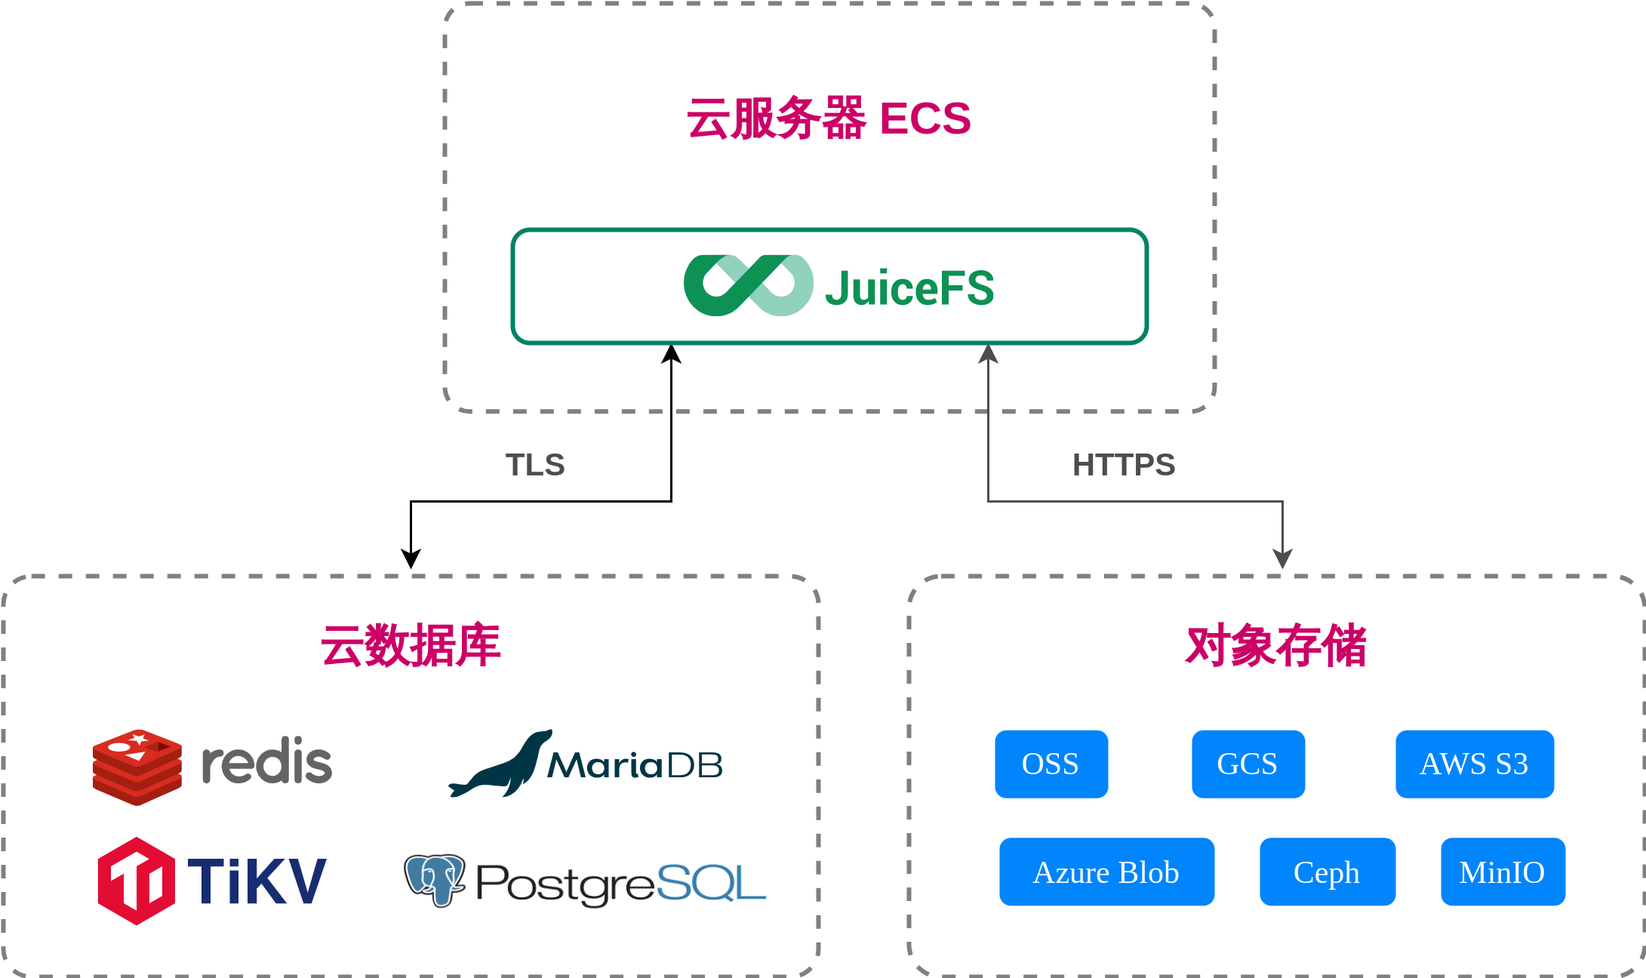
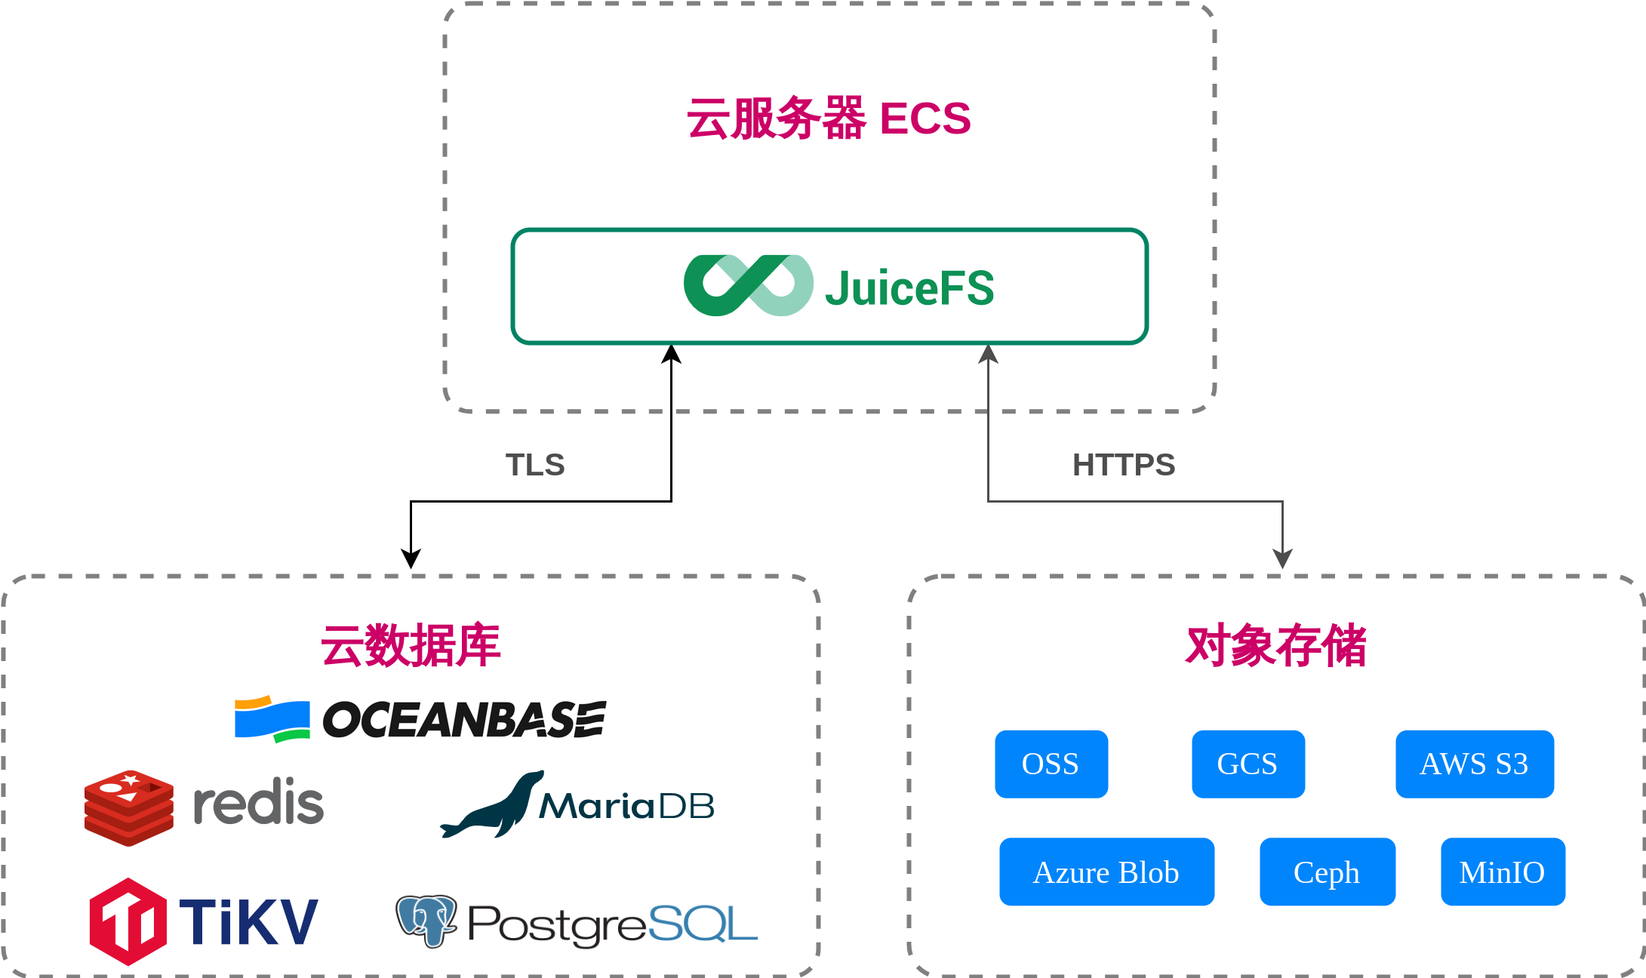
Add OceanBase as the meta-database in the JuiceFS official website documentation

Changed region(s): [[0.0312, 0.7099, 0.4677, 0.9877]]

diff --git a/docs/en/tutorials/qcloud.md b/docs/en/tutorials/qcloud.md
@@ -32,9 +32,9 @@ JuiceFS can be installed on all operating systems provided by Tencent Cloud CVM.
 
 ### 2. Database
 
-JuiceFS will store all the metadata corresponding to the data in a separate database, and the supported databases are Redis, MySQL, PostgreSQL, TiKV and SQLite.
+JuiceFS will store all the metadata corresponding to the data in a separate database, and the supported databases are Redis, MySQL, PostgreSQL, TiKV, SQLite and OceanBase.
 
-Depending on the database type, the performance and reliability of metadata varies. For example, Redis runs entirely on memory, which provides the ultimate performance, but is difficult to operate and maintain, and has relatively low reliability. SQLite is a single-file relational database with low performance and is not suitable for large-scale data storage, but it is configuration-free and suitable for scenarios with small amounts of data storage.
+Depending on the database type, the performance and reliability of metadata varies. For example, Redis runs entirely on memory, which provides the ultimate performance, but is difficult to operate and maintain, and has relatively low reliability. SQLite is a single-file relational database with low performance and is not suitable for large-scale data storage, but it is configuration-free and suitable for scenarios with small amounts of data storage. In contrast, OceanBase is a distributed relational database that can ensure data consistency and high reliability while providing high performance. It is particularly suitable for scenarios with high requirements for transaction consistency and distributed capabilities, making JuiceFS more efficient and stable when processing large-scale metadata.
 
 If you are just evaluating the capabilities of JuiceFS, you can manually build the database for use in the CVM. When you want to use JuiceFS in a production environment, the cloud database service of Tencent Cloud is usually a better choice if you don't have a professional database operation and maintenance team.
 
@@ -42,12 +42,12 @@ Of course, you can also use cloud database services provided on other cloud plat
 
 If you must access the database through the public network, you can enhance the security of your data by strictly limiting the IP addresses that are allowed to access the database through the whitelist feature provided by the cloud database console. On the other hand, if you cannot connect to the cloud database through the public network, then you can check the whitelist of the database.
 
-|    Database     |                          Redis                          |                      MySQL/PostgreSQL                       |                            SQLite                            |
-| :-------------: | :-----------------------------------------------------: | :----------------------------------------------------------: | :----------------------------------------------------------: |
-| **Performance** |                          High                           |                            Medium                            |                             Low                              |
-| **Management**  |                          High                           |                            Medium                            |                             Low                              |
-| **Reliability** |                           Low                           |                            Medium                            |                             Low                              |
-|  **Scenario**   | Massive data, distributed high-frequency read and write | Massive data, distributed low and medium frequency read and write | Low frequency read and write in single machine for small amount of data |
+|    Database     |                          Redis                          |                      MySQL/PostgreSQL                       |                            SQLite                            |                          OceanBase                          |
+| :-------------: | :-----------------------------------------------------: | :----------------------------------------------------------: | :----------------------------------------------------------: | :----------------------------------------------------------: |
+| **Performance** |                          High                           |                            Medium                            |                             Low                              |                          High                           |
+| **Management**  |                          High                           |                            Medium                            |                             Low                              |                            Medium                            |
+| **Reliability** |                           Low                           |                            Medium                            |                             Low                              |                          High                           |
+|  **Scenario**   | Massive data, distributed high-frequency read and write | Massive data, distributed low and medium frequency read and write | Low frequency read and write in single machine for small amount of data | Distributed scenarios, strong transaction consistency, and high reliability requirements |
 
 **This article uses the TencentDB for Redis, which is accessed through a VPC private network interacting with the CVM:**
 

diff --git a/docs/en/tutorials/aliyun.md b/docs/en/tutorials/aliyun.md
@@ -43,9 +43,9 @@ In terms of operating system, JuiceFS can be installed on all operating systems 
 
 ### Cloud database
 
-JuiceFS stores all the metadata corresponding to the data in a separate database, which currently supports Redis, MySQL, PostgreSQL, and SQLite.
+JuiceFS stores all the metadata corresponding to the data in a separate database, which currently supports Redis, MySQL, PostgreSQL, SQLite, and OceanBase.
 
-Depending on the database type, the performance and reliability of metadata are different. For example, Redis runs entirely in memory. While it provides the ultimate performance, it is difficult to operate and maintain and has low reliability. SQLite is a single-file relational database with low performance and is not suitable for large-scale data storage. However, it is configuration-free and suitable for a small amount of data storage on a single machine.
+Depending on the database type, the performance and reliability of metadata are different. For example, Redis runs entirely in memory. While it provides the ultimate performance, it is difficult to operate and maintain and has low reliability. SQLite is a single-file relational database with low performance and is not suitable for large-scale data storage. However, it is configuration-free and suitable for a small amount of data storage on a single machine. In contrast, OceanBase is a distributed relational database that can ensure data consistency and high reliability while providing high performance. It is particularly suitable for scenarios with high requirements for transaction consistency and distributed capabilities, making JuiceFS more efficient and stable when processing large-scale metadata.
 
 If you just want to evaluate the functionality of JuiceFS, you can build the database manually on ECS. If you want to use JuiceFS in a production environment, and you don't have a professional database operation and maintenance team, the cloud database service is usually a better choice.
 
@@ -55,12 +55,12 @@ If you must access the database through the public network, you can enhance the 
 
 On the other hand, if you cannot successfully connect to the cloud database through the public network, you can check the whitelist of the database.
 
-|    Database     |                          Redis                          |                      MySQL/PostgreSQL                       |                            SQLite                            |
-| :-------------: | :-----------------------------------------------------: | :----------------------------------------------------------: | :----------------------------------------------------------: |
-| **Performance** |                          High                           |                            Medium                            |                             Low                              |
-| **Management**  |                          High                           |                            Medium                            |                             Low                              |
-| **Reliability** |                           Low                           |                            Medium                            |                             Low                              |
-|  **Scenario**   | Massive data, distributed high-frequency reads and writes | Massive data, distributed low- and medium-frequency reads and writes | Low-frequency reads and writes in single machine for small amounts of data |
+|    Database     |                          Redis                          |                      MySQL/PostgreSQL                       |                            SQLite                            |                          OceanBase                          |
+| :-------------: | :-----------------------------------------------------: | :----------------------------------------------------------: | :----------------------------------------------------------: | :----------------------------------------------------------: | 
+| **Performance** |                          High                           |                            Medium                            |                             Low                              |                          High                           |
+| **Management**  |                          High                           |                            Medium                            |                             Low                              |                            Medium                            |
+| **Reliability** |                           Low                           |                            Medium                            |                             Low                              |                          High                           |
+|  **Scenario**   | Massive data, distributed high-frequency reads and writes | Massive data, distributed low- and medium-frequency reads and writes | Low-frequency reads and writes in single machine for small amounts of data | Distributed scenarios, strong transaction consistency, and high reliability requirements |
 
 **This document uses [ApsaraDB for Redis](https://www.alibabacloud.com/product/apsaradb-for-redis), and the following pseudo address is compiled for demonstration purposes only:**
 

diff --git a/docs/en/introduction/comparison/juicefs_vs_s3ql.md b/docs/en/introduction/comparison/juicefs_vs_s3ql.md
@@ -15,7 +15,7 @@ Similar to JuiceFS, S3QL is also an open source network file system driven by ob
 
 ## Differences
 
-- S3QL only supports SQLite. But JuiceFS supports more databases, such as Redis, TiKV, MySQL, PostgreSQL, and SQLite.
+- S3QL only supports SQLite. But JuiceFS supports more databases, such as Redis, TiKV, MySQL, PostgreSQL, SQLite, and supports high-performance distributed databases such as OceanBase to meet the needs of more scenarios.
 - S3QL has no distributed capability and **does not** support multi-host shared mounting. JuiceFS is a typical distributed file system. When using a network-based database, it supports multi-host distributed mount read and write.
 - S3QL commits a data block to S3 when it has not been accessed for more than a few seconds. After a file closed or even fsynced, it is only guaranteed to stay in system memory, which may result in data loss if node fails. JuiceFS ensures high data durability, uploading all blocks synchronously when a file is closed.
 - S3QL provides data deduplication. Only one copy of the same data is stored, which can reduce the storage usage, but it will also increase the performance overhead of the system. JuiceFS pays more attention to performance, and it is too expensive to perform deduplication on large-scale data, so this function is temporarily not provided.
@@ -23,7 +23,7 @@ Similar to JuiceFS, S3QL is also an open source network file system driven by ob
 |                           | **S3QL**              | **JuiceFS**                   |
 | :------------------------ | :-------------------- | :---------------------------- |
 | Project status            | Active development    | Active development            |
-| Metadata engine           | SQLite                | Redis, MySQL, SQLite, TiKV    |
+| Metadata engine           | SQLite                | Redis, MySQL, OceanBase, SQLite, TiKV    |
 | Storage engine            | Object Storage, Local | Object Storage, WebDAV, Local |
 | Operating system          | Unix-like             | Linux, macOS, Windows         |
 | Compression algorithm     | LZMA, bzip2, gzip     | LZ4, zstd                     |
@@ -70,7 +70,7 @@ JuiceFS is developed in Go and can be used directly by downloading the pre-compi
 
 ### Create and Mount a file system
 
-Both S3QL and JuiceFS use database to store metadata. S3QL only supports SQLite databases, while JuiceFS supports databases such as Redis, TiKV, MySQL, MariaDB, PostgreSQL, and SQLite.
+Both S3QL and JuiceFS use database to store metadata. S3QL only supports SQLite databases, while JuiceFS supports databases such as SQLite, Redis, TiKV, MySQL, MariaDB, PostgreSQL, and OceanBase.
 
 Here we create a file system using S3QL and JuiceFS separately with locally created MinIO as object storage:
 
@@ -115,4 +115,4 @@ JuiceFS only sets the object storage API access key when creating a file system,
 
 **S3QL** adopts the storage structure of object storage + SQLite. Storing data in blocks can not only improve the read and write efficiency of the file but also reduce the resource overhead when the file is modified. The advanced features such as snapshots, data deduplication, and data retention, as well as the default data compression and data encryption make S3QL very suitable for individuals to store files in cloud storage at a lower cost and with higher security.
 
-**JuiceFS** supports object storage, HDFS, WebDAV, and local disks as data storage engines, and supports popular databases such as Redis, TiKV, MySQL, MariaDB, PostgreSQL, and SQLite as metadata storage engines. It provides a standard POSIX file system interface through FUSE and a Java API, which can directly replace HDFS to provide storage for Hadoop. At the same time, it also provides [Kubernetes CSI Driver](https://github.com/juicedata/juicefs-csi-driver), which can be used as the storage layer of Kubernetes for data persistent storage. JuiceFS is a file system designed for enterprise-level distributed data storage scenarios. It is widely used in various scenarios such as big data analysis, machine learning, container shared storage, data sharing, and backup.
+**JuiceFS** supports object storage, HDFS, WebDAV, and local disks as data storage engines, and supports popular databases such as SQLite, Redis, TiKV, MySQL, MariaDB, PostgreSQL, and OceanBase as metadata storage engines. It provides a standard POSIX file system interface through FUSE and a Java API, which can directly replace HDFS to provide storage for Hadoop. At the same time, it also provides [Kubernetes CSI Driver](https://github.com/juicedata/juicefs-csi-driver), which can be used as the storage layer of Kubernetes for data persistent storage. JuiceFS is a file system designed for enterprise-level distributed data storage scenarios. It is widely used in various scenarios such as big data analysis, machine learning, container shared storage, data sharing, and backup.

diff --git a/docs/en/getting-started/for_distributed.md b/docs/en/getting-started/for_distributed.md
@@ -7,7 +7,7 @@ description: This article will guide you through building a distributed, shared-
 
 [The previous document](./standalone.md) introduces how to create a file system that can be mounted on any host using an *object storage* and an *SQLite* database. Since object storage is accessible by any computer with privileges on the network, you can also access the same JuiceFS file system on different computers by simply copying the SQLite database file to any computer that needs to access the storage.
 
-However, this approach does not guarantee real-time file availability when the file system is shared. Since SQLite is a single file database that cannot be accessed by multiple computers at the same time, a database that supports network access is needed, such as Redis, PostgreSQL, or MySQL. This allows a file system to be mounted and read by multiple computers in a distributed environment.
+However, this approach does not guarantee real-time file availability when the file system is shared. Since SQLite is a single file database that cannot be accessed by multiple computers at the same time, a database that supports network access is needed, such as Redis, PostgreSQL, MySQL, or OceanBase. This allows a file system to be mounted and read by multiple computers in a distributed environment.
 
 In this document, a multi-user *cloud database* will be used to replace the single-user *SQLite* database used in the previous document. This aims to implement a distributed file system that can be mounted on any computer on the network for reading and writing.
 
@@ -21,7 +21,7 @@ A *network database* is one that allows multiple users to access it simultaneous
 JuiceFS currently supports the following network-based databases.
 
 - **Key-value databases**: Redis, TiKV, etcd, and FoundationDB
-- **Relational databases**: PostgreSQL, MySQL, and MariaDB
+- **Relational databases**: PostgreSQL, MySQL, MariaDB, and the distributed relational database OceanBase
 
 Different databases have different performance and stability. For example, Redis is an in-memory key-value database with excellent performance but relatively weak reliability, while PostgreSQL is a more reliable relational database with lower performance than in-memory databases.
 

diff --git a/docs/en/introduction/README.md b/docs/en/introduction/README.md
@@ -7,7 +7,7 @@ pagination_next: introduction/architecture
 
 [**JuiceFS**](https://github.com/juicedata/juicefs) is an open-source, high-performance distributed file system designed for the cloud, released under the Apache License 2.0. By providing full [POSIX](https://en.wikipedia.org/wiki/POSIX) compatibility, it allows almost all kinds of object storage to be used as massive local disks and to be mounted and accessed on different hosts across platforms and regions.
 
-JuiceFS separates "data" and "metadata" storage. Files are split into chunks and stored in [object storage](../reference/how_to_set_up_object_storage.md#supported-object-storage) like Amazon S3. The corresponding metadata can be stored in various [databases](../reference/how_to_set_up_metadata_engine.md) such as Redis, MySQL, TiKV, and SQLite, based on the scenarios and requirements.
+JuiceFS separates "data" and "metadata" storage. Files are split into chunks and stored in [object storage](../reference/how_to_set_up_object_storage.md#supported-object-storage) like Amazon S3. The corresponding metadata can be stored in various [databases](../reference/how_to_set_up_metadata_engine.md) such as Redis, MySQL, TiKV, and SQLite. Recently, JuiceFS has also introduced support for the distributed relational database OceanBase, whose high scalability, strong consistency transaction capabilities, and high reliability make it particularly suitable for high-concurrency, large-scale metadata management scenarios. Users can choose according to the scenario and performance requirements.
 
 JuiceFS provides rich APIs for various forms of data management, analysis, archiving, and backup. It seamlessly interfaces with big data, machine learning, artificial intelligence and other application platforms without modifying code, and delivers massive, elastic, and high-performance storage at low cost. With JuiceFS, you do not need to worry about availability, disaster recovery, monitoring, and scalability. This greatly reduces maintenance work and makes it an excellent choice for DevOps.
 

diff --git a/docs/zh_cn/introduction/README.md b/docs/zh_cn/introduction/README.md
@@ -7,7 +7,7 @@ pagination_next: introduction/architecture
 
 **JuiceFS** 是一款面向云原生设计的高性能分布式文件系统，在 Apache 2.0 开源协议下发布。提供完备的 [POSIX](https://en.wikipedia.org/wiki/POSIX) 兼容性，可将几乎所有对象存储接入本地作为海量本地磁盘使用，亦可同时在跨平台、跨地区的不同主机上挂载读写。
 
-JuiceFS 采用「数据」与「元数据」分离存储的架构，从而实现文件系统的分布式设计。文件数据本身会被切分保存在[对象存储](../reference/how_to_set_up_object_storage.md#supported-object-storage)（例如 Amazon S3），而元数据则可以保存在 Redis、MySQL、TiKV、SQLite 等多种[数据库](../reference/how_to_set_up_metadata_engine.md)中，你可以根据场景与性能要求进行选择。
+JuiceFS 采用「数据」与「元数据」分离存储的架构，从而实现文件系统的分布式设计。文件数据本身会被切分保存在[对象存储](../reference/how_to_set_up_object_storage.md#supported-object-storage)（例如 Amazon S3），而元数据则可以保存在 Redis、MySQL、TiKV、SQLite 等多种[数据库](../reference/how_to_set_up_metadata_engine.md)中，近期，JuiceFS 还引入了对分布式关系型数据库 OceanBase 的支持，其高可扩展性、强一致性事务能力和高可靠性使其特别适合高并发、大规模元数据管理场景。你可以根据场景与性能要求进行选择。
 
 JuiceFS 提供了丰富的 API，适用于各种形式数据的管理、分析、归档、备份，可以在不修改代码的前提下无缝对接大数据、机器学习、人工智能等应用平台，为其提供海量、弹性、低价的高性能存储。运维人员不用再为可用性、灾难恢复、监控、扩容等工作烦恼，专注于业务开发，提升研发效率。同时运维细节的简化，对 DevOps 极其友好。
 

diff --git a/docs/en/introduction/comparison/juicefs_vs_seaweedfs.md b/docs/en/introduction/comparison/juicefs_vs_seaweedfs.md
@@ -70,7 +70,7 @@ On top of the underlying storage services, SeaweedFS offers a component called f
 JuiceFS adopts an architecture that separates data and metadata storage:
 
 - File data is split and stored in object storage systems such as Amazon S3.
-- Metadata is stored in a user-selected database such as Redis or MySQL.
+- Metadata is stored in a user-selected database such as Redis, MySQL, or even a distributed database such as OceanBase.
 
 The client connects to the metadata engine for metadata services and writes actual data to object storage, achieving distributed file systems with strong consistency .
 
@@ -89,7 +89,7 @@ Both SeaweedFS and JuiceFS support storing file system metadata in external data
 
 ### Atomic operations
 
-JuiceFS ensures strict atomicity for every operation, which requires strong transaction capabilities from the metadata engine like Redis and MySQL. As a result, JuiceFS supports fewer databases.
+JuiceFS ensures strict atomicity for every operation, which requires strong transaction capabilities from the metadata engine like Redis and MySQL. As a result, JuiceFS supports fewer databases. If you need to use a distributed database, OceanBase is an ideal choice.
 
 SeaweedFS provides weaker atomicity guarantees for operations. It only uses transactions of some databases (SQL, ArangoDB, and TiKV) during rename operations, with a lower requirement for database transaction capabilities. Additionally, during the rename operation, SeaweedFS does not lock the original directory or file during the metadata copying process. This may result in data loss under high loads.
 
